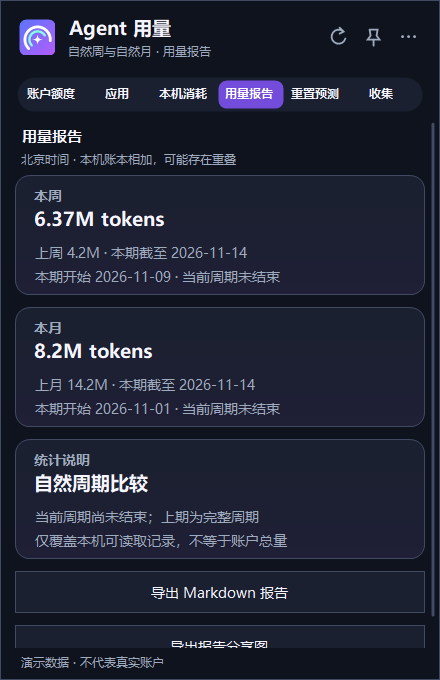
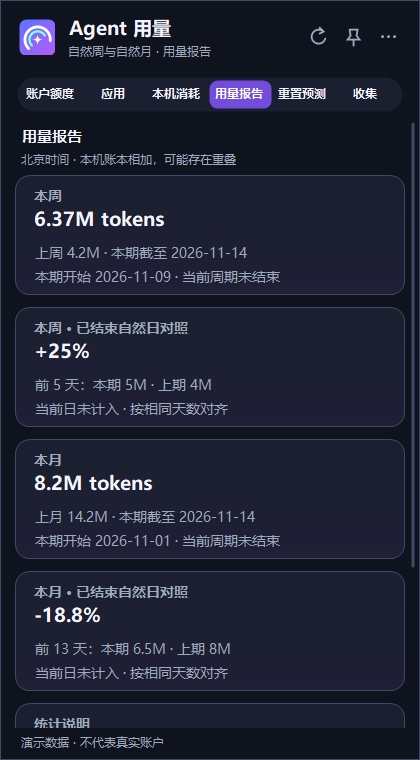
更新 Alpha 17 报告说明和界面截图

diff --git a/README.md b/README.md
@@ -10,11 +10,11 @@
 [![Windows 构建](https://github.com/FoxBai/agent-meter-windows/actions/workflows/windows-port.yml/badge.svg)](https://github.com/FoxBai/agent-meter-windows/actions/workflows/windows-port.yml)
 [![许可证：MIT](https://img.shields.io/badge/License-MIT-blue.svg)](LICENSE)
 
-[下载](https://github.com/FoxBai/agent-meter-windows/releases/tag/windows-v0.1.0-alpha.16) · [快速使用](windows/QUICK_START.md) · [更新记录](windows/CHANGELOG.md) · [移植进度](windows/PORT_PLAN.md) · [English](README.en.md)
+[下载](https://github.com/FoxBai/agent-meter-windows/releases/tag/windows-v0.1.0-alpha.17) · [快速使用](windows/QUICK_START.md) · [更新记录](windows/CHANGELOG.md) · [移植进度](windows/PORT_PLAN.md) · [English](README.en.md)
 
 </div>
 
-基于 [Gary23333/agent-meter](https://github.com/Gary23333/agent-meter) 的独立 Windows 移植版。当前为 **Alpha 16**：已有可运行的便携包，功能、材质和动效仍在向 macOS 原版靠拢。
+基于 [Gary23333/agent-meter](https://github.com/Gary23333/agent-meter) 的独立 Windows 移植版。当前为 **Alpha 17**：已有可运行的便携包，功能、材质和动效仍在向 macOS 原版靠拢。
 
 <p align="center">
   <img src="windows/assets/screenshot.png" width="400" alt="深色托盘弹层，虚构演示数据">
@@ -25,7 +25,7 @@
 
 ## 三步开始
 
-1. 从 [Alpha 16 发布页](https://github.com/FoxBai/agent-meter-windows/releases/tag/windows-v0.1.0-alpha.16) 下载 `AgentMeter-Windows-x64.zip`。
+1. 从 [Alpha 17 发布页](https://github.com/FoxBai/agent-meter-windows/releases/tag/windows-v0.1.0-alpha.17) 下载 `AgentMeter-Windows-x64.zip`。
 2. 解压并保留完整文件夹，运行 `AgentMeter.Windows.exe`。便携包已包含运行环境；WorkBuddy 登录另需 [WebView2 Runtime](https://developer.microsoft.com/microsoft-edge/webview2/)。
 3. 点击通知区域的图标查看用量；找不到时展开隐藏图标。右键或顶部三个圆点可切换账户、托盘余量和界面风格。
 
@@ -49,7 +49,7 @@
 | 账户 | 各服务剩余额度、周期重置时间、可用的套餐与余额，以及独立标注的本机统计 |
 | 应用 | 工具覆盖情况、近期有更新的活动记录；支持筛选和展开数据来源 |
 | 用量 | 今日、近 7 天、近 30 天和累计 Token，7 日模型排行、自然日趋势及所选周期 API 等价估算；支持导出 JSON / CSV 汇总 |
-| 报告 | 本周、上周、本月和上月汇总，导出 Markdown 或随主题变化的 PNG 分享图 |
+| 报告 | 本周、上周、本月和上月汇总；比较已结束的相同自然日，导出 Markdown 或 PNG 分享图 |
 | 预测 | 主动开启后查看第三方 24 / 48 小时预测、上游加权中位数、明确时间窗口与历史事件 |
 | 收集 | 本机用量徽章、5 小时和 7 天额度窗口的掉落卡片；更多类别仍在移植 |
 

diff --git a/windows/PORT_PLAN.md b/windows/PORT_PLAN.md
@@ -38,7 +38,9 @@
 
[1 lines of base64/hex data omitted]
 
[2 lines of base64/hex data omitted]
+
[1 lines of base64/hex data omitted]
 
 ## 安全与数据边界
 

diff --git a/README.en.md b/README.en.md
@@ -77,7 +77,7 @@ The new Kimi, OpenCode, MiniMax Code, MiMo Code, DevECo and Qoder CN readers hav
 
 ### Download the preview
 
-Download [Windows v0.1.0-alpha.16](https://github.com/FoxBai/agent-meter-windows/releases/tag/windows-v0.1.0-alpha.16), extract `AgentMeter-Windows-x64.zip`, and run `AgentMeter.Windows.exe` from the extracted folder. The portable bundle includes the application runtime; WorkBuddy requires a separately installed WebView2 Runtime. The preview is not code-signed; the release page includes a SHA-256 checksum. Isolated Windows checks cover deactivation, pinning, owned windows, Esc and scrolling. Real taskbar, multi-monitor, high-DPI and a separate clean physical installation remain unverified.
+Download [Windows v0.1.0-alpha.17](https://github.com/FoxBai/agent-meter-windows/releases/tag/windows-v0.1.0-alpha.17), extract `AgentMeter-Windows-x64.zip`, and run `AgentMeter.Windows.exe` from the extracted folder. The portable bundle includes the application runtime; WorkBuddy requires a separately installed WebView2 Runtime. The preview is not code-signed; the release page includes a SHA-256 checksum. Isolated Windows checks cover deactivation, pinning, owned windows, Esc and scrolling. Real taskbar, multi-monitor, high-DPI and a separate clean physical installation remain unverified.
 
 ### Build from source
 
